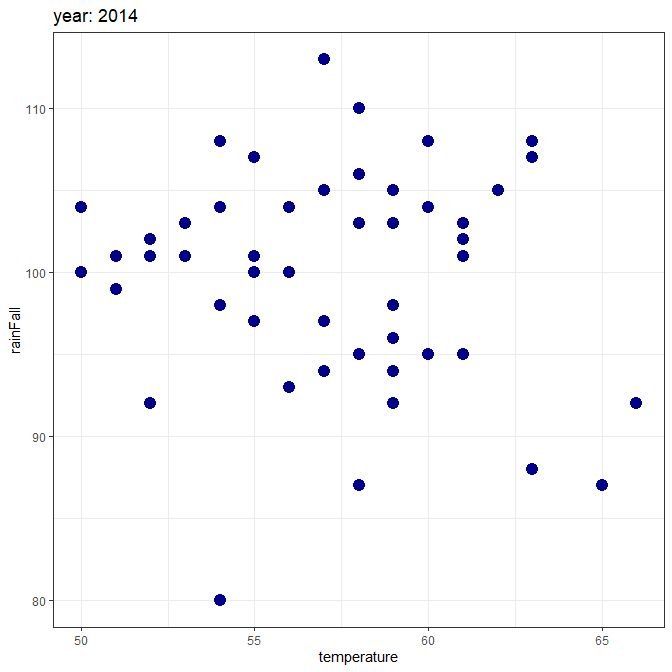
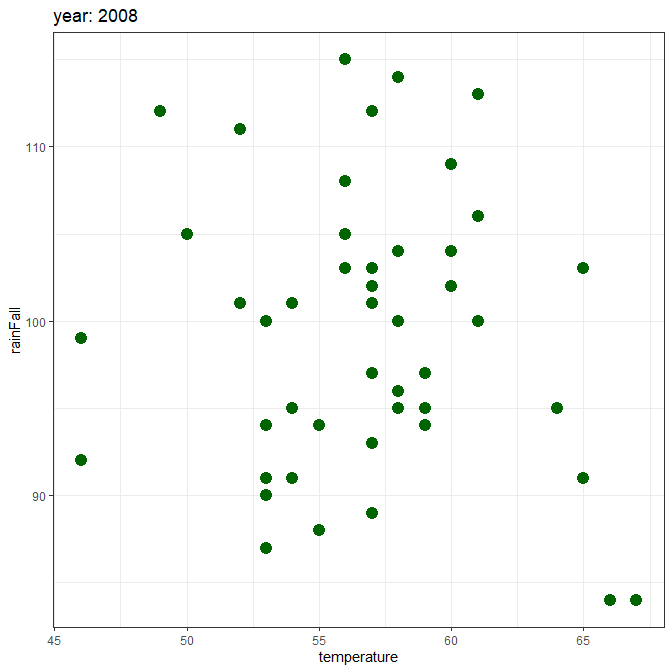
UPdated

diff --git a/Quarto/Quarto_parameterized_proj/2008-darkblue-report.md b/Quarto/Quarto_parameterized_proj/2008-darkblue-report.md
@@ -1,0 +1,79 @@
+# template code
+
+
+- [read data](#read-data)
+- [extract year from datatime
+  column](#extract-year-from-datatime-column)
+- [filter data](#filter-data)
+- [visualize](#visualize)
+
+# read data
+
+``` r
+library(tidyverse)
+dat <- readxl :: read_xlsx("sim_dat.xlsx")
+
+dat |> head()
+```
+
+    # A tibble: 6 × 3
+      year                temperature rainFall
+      <dttm>                    <dbl>    <dbl>
+    1 1990-01-01 00:00:00          52      105
+    2 1990-01-08 00:00:00          58       99
+    3 1990-01-15 00:00:00          61      107
+    4 1990-01-22 00:00:00          48       96
+    5 1990-01-29 00:00:00          59      102
+    6 1990-02-05 00:00:00          59       96
+
+# extract year from datatime column
+
+``` r
+dat_update <- dat |> 
+        mutate(col_year = lubridate :: year(year)) |> 
+        relocate('col_year', .before = 'year') 
+dat_update |> head()
+```
+
+    # A tibble: 6 × 4
+      col_year year                temperature rainFall
+         <dbl> <dttm>                    <dbl>    <dbl>
+    1     1990 1990-01-01 00:00:00          52      105
+    2     1990 1990-01-08 00:00:00          58       99
+    3     1990 1990-01-15 00:00:00          61      107
+    4     1990 1990-01-22 00:00:00          48       96
+    5     1990 1990-01-29 00:00:00          59      102
+    6     1990 1990-02-05 00:00:00          59       96
+
+# filter data
+
+``` r
+filter_data <- dat_update |> 
+    dplyr :: filter (col_year == params$year)
+
+filter_data |> head() 
+```
+
+    # A tibble: 6 × 4
+      col_year year                temperature rainFall
+         <dbl> <dttm>                    <dbl>    <dbl>
+    1     2008 2008-01-07 00:00:00          66       84
+    2     2008 2008-01-14 00:00:00          50      105
+    3     2008 2008-01-21 00:00:00          57       97
+    4     2008 2008-01-28 00:00:00          52      111
+    5     2008 2008-02-04 00:00:00          55       94
+    6     2008 2008-02-11 00:00:00          56      105
+
+year: 2008
+
+# visualize
+
+``` r
+filter_data |> 
+ggplot(aes(x = temperature, y = rainFall)) + 
+    geom_point(color = params$color, size = 4, shape = 19) + 
+    ggtitle(paste0("year: ", params$year)) + 
+    theme_bw() 
+```
+
+![](quarto_parameterized_files/figure-commonmark/unnamed-chunk-4-1.png)

diff --git a/Quarto/Quarto_parameterized_proj/2008-darkgreen-report.md b/Quarto/Quarto_parameterized_proj/2008-darkgreen-report.md
@@ -1,0 +1,79 @@
+# template code
+
+
+- [read data](#read-data)
+- [extract year from datatime
+  column](#extract-year-from-datatime-column)
+- [filter data](#filter-data)
+- [visualize](#visualize)
+
+# read data
+
+``` r
+library(tidyverse)
+dat <- readxl :: read_xlsx("sim_dat.xlsx")
+
+dat |> head()
+```
+
+    # A tibble: 6 × 3
+      year                temperature rainFall
+      <dttm>                    <dbl>    <dbl>
+    1 1990-01-01 00:00:00          52      105
+    2 1990-01-08 00:00:00          58       99
+    3 1990-01-15 00:00:00          61      107
+    4 1990-01-22 00:00:00          48       96
+    5 1990-01-29 00:00:00          59      102
+    6 1990-02-05 00:00:00          59       96
+
+# extract year from datatime column
+
+``` r
+dat_update <- dat |> 
+        mutate(col_year = lubridate :: year(year)) |> 
+        relocate('col_year', .before = 'year') 
+dat_update |> head()
+```
+
+    # A tibble: 6 × 4
+      col_year year                temperature rainFall
+         <dbl> <dttm>                    <dbl>    <dbl>
+    1     1990 1990-01-01 00:00:00          52      105
+    2     1990 1990-01-08 00:00:00          58       99
+    3     1990 1990-01-15 00:00:00          61      107
+    4     1990 1990-01-22 00:00:00          48       96
+    5     1990 1990-01-29 00:00:00          59      102
+    6     1990 1990-02-05 00:00:00          59       96
+
+# filter data
+
+``` r
+filter_data <- dat_update |> 
+    dplyr :: filter (col_year == params$year)
+
+filter_data |> head() 
+```
+
+    # A tibble: 6 × 4
+      col_year year                temperature rainFall
+         <dbl> <dttm>                    <dbl>    <dbl>
+    1     2008 2008-01-07 00:00:00          66       84
+    2     2008 2008-01-14 00:00:00          50      105
+    3     2008 2008-01-21 00:00:00          57       97
+    4     2008 2008-01-28 00:00:00          52      111
+    5     2008 2008-02-04 00:00:00          55       94
+    6     2008 2008-02-11 00:00:00          56      105
+
+year: 2008
+
+# visualize
+
+``` r
+filter_data |> 
+ggplot(aes(x = temperature, y = rainFall)) + 
+    geom_point(color = params$color, size = 4, shape = 19) + 
+    ggtitle(paste0("year: ", params$year)) + 
+    theme_bw() 
+```
+
+![](quarto_parameterized_files/figure-commonmark/unnamed-chunk-4-1.png)

diff --git a/Quarto/Quarto_parameterized_proj/2022-darkblue-report.md b/Quarto/Quarto_parameterized_proj/2022-darkblue-report.md
@@ -1,0 +1,79 @@
+# template code
+
+
+- [read data](#read-data)
+- [extract year from datatime
+  column](#extract-year-from-datatime-column)
+- [filter data](#filter-data)
+- [visualize](#visualize)
+
+# read data
+
+``` r
+library(tidyverse)
+dat <- readxl :: read_xlsx("sim_dat.xlsx")
+
+dat |> head()
+```
+
+    # A tibble: 6 × 3
+      year                temperature rainFall
+      <dttm>                    <dbl>    <dbl>
+    1 1990-01-01 00:00:00          52      105
+    2 1990-01-08 00:00:00          58       99
+    3 1990-01-15 00:00:00          61      107
+    4 1990-01-22 00:00:00          48       96
+    5 1990-01-29 00:00:00          59      102
+    6 1990-02-05 00:00:00          59       96
+
+# extract year from datatime column
+
+``` r
+dat_update <- dat |> 
+        mutate(col_year = lubridate :: year(year)) |> 
+        relocate('col_year', .before = 'year') 
+dat_update |> head()
+```
+
+    # A tibble: 6 × 4
+      col_year year                temperature rainFall
+         <dbl> <dttm>                    <dbl>    <dbl>
+    1     1990 1990-01-01 00:00:00          52      105
+    2     1990 1990-01-08 00:00:00          58       99
+    3     1990 1990-01-15 00:00:00          61      107
+    4     1990 1990-01-22 00:00:00          48       96
+    5     1990 1990-01-29 00:00:00          59      102
+    6     1990 1990-02-05 00:00:00          59       96
+
+# filter data
+
+``` r
+filter_data <- dat_update |> 
+    dplyr :: filter (col_year == params$year)
+
+filter_data |> head() 
+```
+
+    # A tibble: 6 × 4
+      col_year year                temperature rainFall
+         <dbl> <dttm>                    <dbl>    <dbl>
+    1     2022 2022-01-03 00:00:00          54      108
+    2     2022 2022-01-10 00:00:00          62      100
+    3     2022 2022-01-17 00:00:00          56      103
+    4     2022 2022-01-24 00:00:00          59       93
+    5     2022 2022-01-31 00:00:00          60      102
+    6     2022 2022-02-07 00:00:00          55       99
+
+year: 2022
+
+# visualize
+
+``` r
+filter_data |> 
+ggplot(aes(x = temperature, y = rainFall)) + 
+    geom_point(color = params$color, size = 4, shape = 19) + 
+    ggtitle(paste0("year: ", params$year)) + 
+    theme_bw() 
+```
+
+![](quarto_parameterized_files/figure-commonmark/unnamed-chunk-4-1.png)

diff --git a/Quarto/Quarto_parameterized_proj/2022-darkgreen-report.md b/Quarto/Quarto_parameterized_proj/2022-darkgreen-report.md
@@ -1,0 +1,79 @@
+# template code
+
+
+- [read data](#read-data)
+- [extract year from datatime
+  column](#extract-year-from-datatime-column)
+- [filter data](#filter-data)
+- [visualize](#visualize)
+
+# read data
+
+``` r
+library(tidyverse)
+dat <- readxl :: read_xlsx("sim_dat.xlsx")
+
+dat |> head()
+```
+
+    # A tibble: 6 × 3
+      year                temperature rainFall
+      <dttm>                    <dbl>    <dbl>
+    1 1990-01-01 00:00:00          52      105
+    2 1990-01-08 00:00:00          58       99
+    3 1990-01-15 00:00:00          61      107
+    4 1990-01-22 00:00:00          48       96
+    5 1990-01-29 00:00:00          59      102
+    6 1990-02-05 00:00:00          59       96
+
+# extract year from datatime column
+
+``` r
+dat_update <- dat |> 
+        mutate(col_year = lubridate :: year(year)) |> 
+        relocate('col_year', .before = 'year') 
+dat_update |> head()
+```
+
+    # A tibble: 6 × 4
+      col_year year                temperature rainFall
+         <dbl> <dttm>                    <dbl>    <dbl>
+    1     1990 1990-01-01 00:00:00          52      105
+    2     1990 1990-01-08 00:00:00          58       99
+    3     1990 1990-01-15 00:00:00          61      107
+    4     1990 1990-01-22 00:00:00          48       96
+    5     1990 1990-01-29 00:00:00          59      102
+    6     1990 1990-02-05 00:00:00          59       96
+
+# filter data
+
+``` r
+filter_data <- dat_update |> 
+    dplyr :: filter (col_year == params$year)
+
+filter_data |> head() 
+```
+
+    # A tibble: 6 × 4
+      col_year year                temperature rainFall
+         <dbl> <dttm>                    <dbl>    <dbl>
+    1     2022 2022-01-03 00:00:00          54      108
+    2     2022 2022-01-10 00:00:00          62      100
+    3     2022 2022-01-17 00:00:00          56      103
+    4     2022 2022-01-24 00:00:00          59       93
+    5     2022 2022-01-31 00:00:00          60      102
+    6     2022 2022-02-07 00:00:00          55       99
+
+year: 2022
+
+# visualize
+
+``` r
+filter_data |> 
+ggplot(aes(x = temperature, y = rainFall)) + 
+    geom_point(color = params$color, size = 4, shape = 19) + 
+    ggtitle(paste0("year: ", params$year)) + 
+    theme_bw() 
+```
+
+![](quarto_parameterized_files/figure-commonmark/unnamed-chunk-4-1.png)
